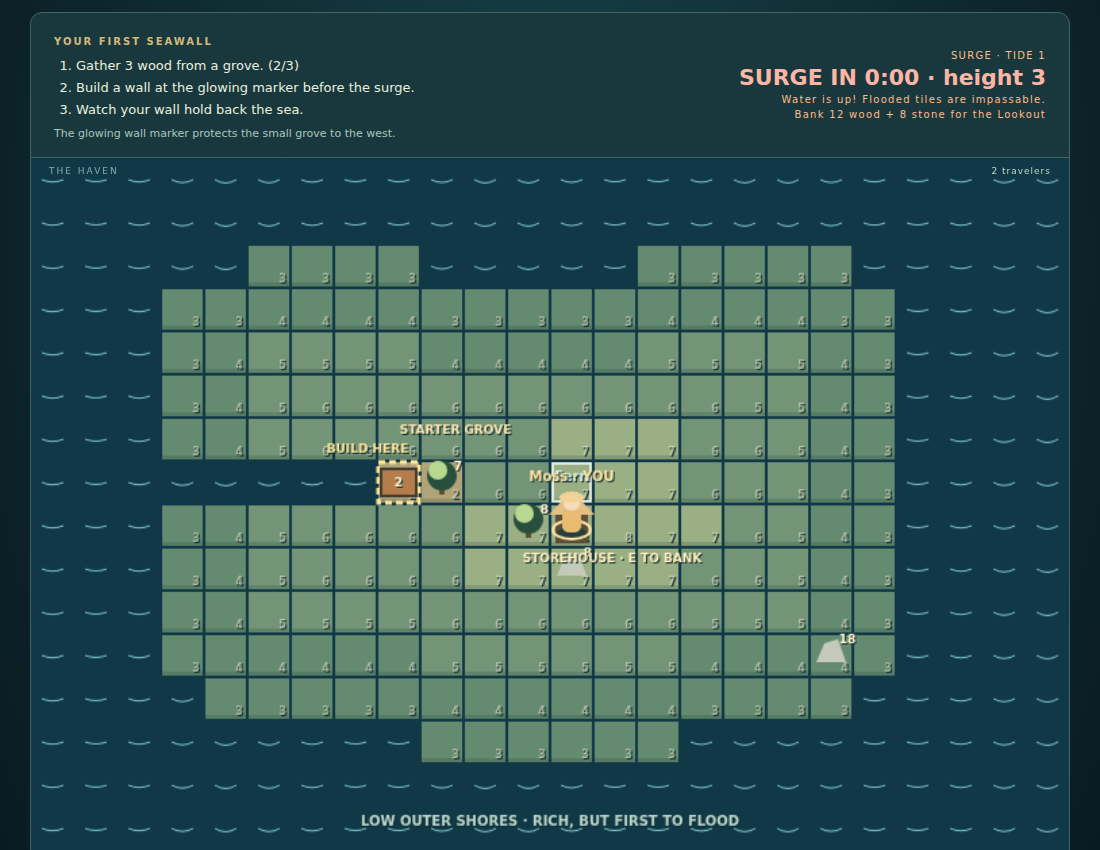
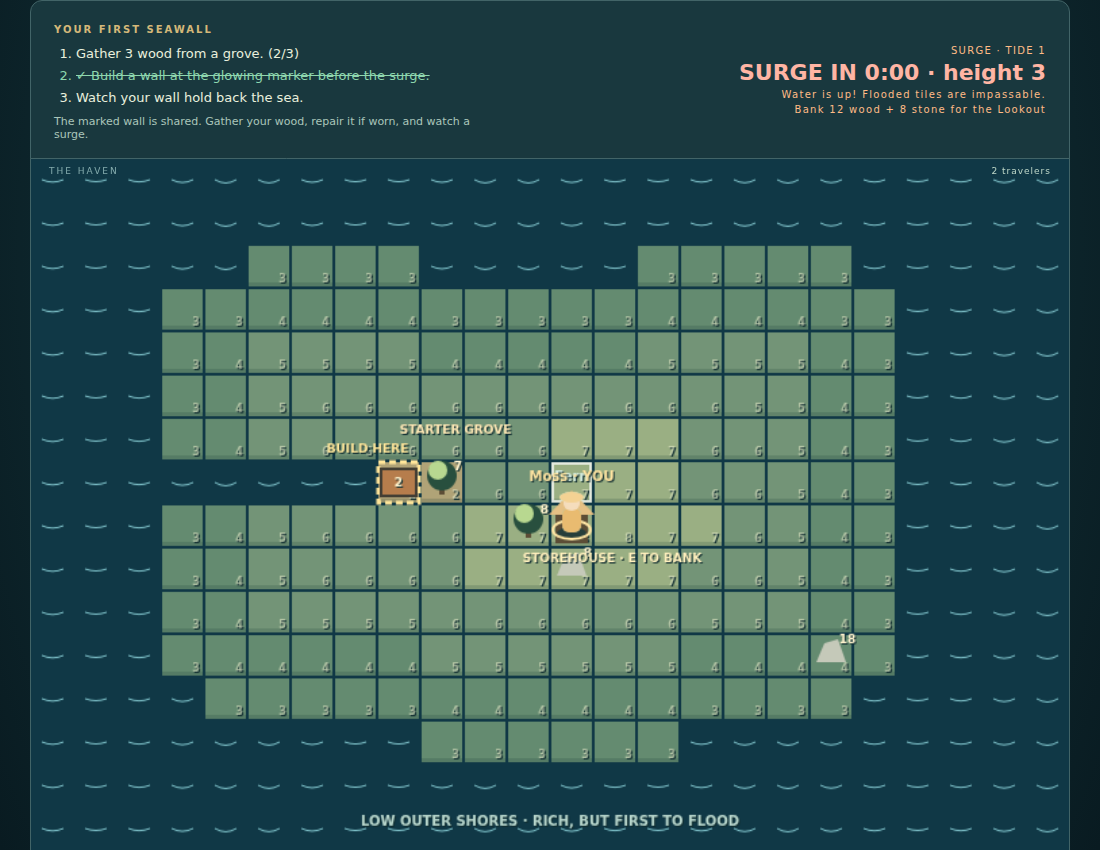
Harden shared onboarding and surge wear feedback

Changed region(s): [[0.0309, 0.0, 0.4327, 0.1835], [0.68, 0.0306, 0.9582, 0.1529]]

diff --git a/tests/invariants.test.ts b/tests/invariants.test.ts
@@ -208,11 +208,61 @@ test('only building and holding the marked starter wall completes the guided obj
     assert.equal(game.player(p.id).built,1);
   }finally{game.close();f.cleanup();}
 });
+test('starter construction is shared with current and late players; a real hold credits everyone who gathered three',()=>{
+  const f=fixture(),game=f.game;
+  try{
+    const owner=game.join('Builder').player,helper=game.join('Helper').player,passive=game.join('Newcomer').player,field=tileCenter(STARTER_WALL+1);
+    for(const p of [owner,helper]) {
+      position(game,p.id,field.x,field.y);
+      for(let i=0;i<3;i++)game.gather(p.id,'grove');
+    }
+    game.build(owner.id,STARTER_WALL,'wood');
+    for(const p of [owner,helper,passive]) assert.equal(game.player(p.id).objective.built,true);
+    assert.equal(game.player(owner.id).built,1);assert.equal(game.player(helper.id).built,0);
+    const late=game.join('Late Join').player;
+    assert.equal(late.objective.built,true);assert.equal(late.objective.held,false);
+    position(game,late.id,field.x,field.y);
+    for(let i=0;i<3;i++)game.gather(late.id,'grove');
+    assert.throws(()=>game.build(late.id,STARTER_WALL,'wood'),/already built together/);
+    assert.equal(game.player(late.id).inventory.wood,3);
+    f.advance(SHIFT_MS);game.shift();
+    for(const p of [owner,helper,late]) assert.equal(game.player(p.id).objective.held,true);
+    assert.equal(game.player(passive.id).objective.held,false);
+    const after=game.join('After Surge').player;
+    assert.equal(after.objective.built,true);assert.equal(after.objective.held,false);
+    position(game,after.id,field.x,field.y);
+    for(let i=0;i<3;i++)game.gather(after.id,'grove');
+    assert.equal(game.player(after.id).objective.held,false);
+    game.db.prepare('UPDATE walls SET hp=0 WHERE tile=?').run(STARTER_WALL);
+    assert.equal(game.join('After Break').player.objective.built,true);
+  }finally{game.close();f.cleanup();}
+});
+test('every surge replaces stale hold notices even when the owner remains safe at the haven',()=>{
+  const f=fixture(),game=f.game;
+  try{
+    const p=game.join('Safe Builder').player,field=tileCenter(STARTER_WALL+1);
+    position(game,p.id,field.x,field.y);
+    for(let i=0;i<3;i++)game.gather(p.id,'grove');
+    game.build(p.id,STARTER_WALL,'wood');
+    position(game,p.id,CAMP.x,CAMP.y);
+    f.advance(SHIFT_MS);game.shift();
+    assert.match(game.player(p.id).notice,/held back tide 1/);
+    assert.equal(game.player(p.id).objective.held,true);
+    f.advance(8000);game.shift();f.advance(5000);game.shift();
+    f.advance(SHIFT_MS);game.shift();
+    assert.match(game.player(p.id).notice,/Tide 2 surged at height 4/);
+    assert.doesNotMatch(game.player(p.id).notice,/held back tide 1/);
+    assert.equal(game.player(p.id).objective.held,true);
+    assert.equal(game.player(p.id).swept,0);
+    assert.equal(game.world.walls[0].hp,0);
+  }finally{game.close();f.cleanup();}
+});
 test('stone walls wear once on each held surge and their last hit protects land until recession',()=>{
   const f=fixture(),game=f.game;
   try{
     const p=game.join('Mason').player,field=tileCenter(STARTER_WALL+1);
     position(game,p.id,field.x,field.y);
+    for(let i=0;i<3;i++)game.gather(p.id,'grove');
     game.db.prepare('UPDATE players SET wood=1,stone=3 WHERE id=?').run(p.id);
     game.build(p.id,STARTER_WALL,'stone');
     for(let tide=1;tide<=5;tide++){
@@ -227,6 +277,24 @@ test('stone walls wear once on each held surge and their last hit protects land 
     assert.ok(game.world.forecast.includes(STARTER_WALL+1));
     f.advance(SHIFT_MS);game.shift();
     assert.equal(game.player(p.id).swept,1);assert.equal(game.player(p.id).objective.held,true);
+  }finally{game.close();f.cleanup();}
+});
+test('a redundant sea-exposed front wall wears while its sheltered backup does not; objective still needs marginal pocket protection',()=>{
+  const f=fixture(),game=f.game;
+  try{
+    const p=game.join('Layered Defenses').player,field=tileCenter(STARTER_WALL+1),marker=tileCenter(STARTER_WALL);
+    position(game,p.id,field.x,field.y);
+    for(let i=0;i<6;i++)game.gather(p.id,'grove');
+    game.build(p.id,STARTER_WALL,'wood');
+    position(game,p.id,marker.x,marker.y);game.build(p.id,STARTER_WALL-1,'wood');
+    const prediction=game.world.forecast;
+    assert.ok(!prediction.includes(STARTER_WALL+1));
+    f.advance(SHIFT_MS);game.shift();
+    assert.deepEqual(game.world.flooded,prediction);
+    assert.equal(game.world.walls.find(w=>w.tile===STARTER_WALL-1)!.hp,2);
+    assert.equal(game.world.walls.find(w=>w.tile===STARTER_WALL)!.hp,3);
+    assert.equal(game.player(p.id).objective.held,false);
+    assert.equal(game.player(p.id).swept,0);
   }finally{game.close();f.cleanup();}
 });
 test('legacy migration preserves hashed identity and materials without retaining old quests',()=>{
@@ -338,6 +406,12 @@ function awaitMessage(ws:WebSocket,predicate:(data:Record<string,unknown>)=>bool
     ws.on('message',handle);
   });
 }
+function awaitClose(ws: WebSocket): Promise<number> {
+  return new Promise((resolve,reject)=>{
+    const timer=setTimeout(()=>reject(Error('WS close timeout')),3000);
+    ws.once('close',code=>{clearTimeout(timer);resolve(code);});
+  });
+}
 async function availablePort(): Promise<number> {
   const listener=createServer();
   await new Promise<void>((resolve,reject)=>{listener.once('error',reject);listener.listen(0,'127.0.0.1',resolve);});
@@ -439,7 +513,7 @@ test('real protocol rejects stolen IDs, duplicate sessions/sequences, teleport/s
       const wallResults=await Promise.all(wallRace);
       assert.equal(wallResults.filter(d=>d.type==='notice').length,1);
       assert.match(String(wallResults.find(d=>d.type==='notice')!.message),/wall built/);
-      assert.match(String(wallResults.find(d=>d.type==='error')!.message),/already stands/);
+      assert.match(String(wallResults.find(d=>d.type==='error')!.message),/already built together/);
       assert.equal(fixtureDb.world.walls.length,1);
       assert.equal(fixtureDb.player(a.id).inventory.wood+fixtureDb.player(b.id).inventory.wood,3);
       for(const client of [ws,second.ws]){
@@ -447,11 +521,11 @@ test('real protocol rejects stolen IDs, duplicate sessions/sequences, teleport/s
         assert.equal((remote.world as {lookout:boolean}).lookout,true);
       }
     } finally {fixtureDb.close();}
-    const close=new Promise<number>(r=>ws.once('close',code=>r(code)));
-    for(let i=0;i<45;i++)ws.send(JSON.stringify({type:'input',seq:1000+i,dx:0,dy:0}));
+    const close=awaitClose(ws);
+    for(let i=0;i<80;i++)ws.send(JSON.stringify({type:'input',seq:1000+i,dx:0,dy:0}));
     assert.equal(await close,1008);
     const huge=await socket(b.token+'x',url);connections.push(huge.ws);
-    const payloadClose=new Promise<number>(r=>huge.ws.once('close',code=>r(code)));
+    const payloadClose=awaitClose(huge.ws);
     huge.ws.send('x'.repeat(2048));assert.equal(await payloadClose,1009);
     assert.equal((await fetch(`${base}/health`)).status,200);
     assert.equal((await fetch(`${base}/favicon.ico`)).status,204);

diff --git a/src/world.ts b/src/world.ts
@@ -45,6 +45,7 @@ export class Game {
         this.db.prepare('UPDATE players SET x=?,y=?,notice=?').run(CAMP.x, CAMP.y, 'Welcome to Rising Tide. Your identity and materials are safe.');
       }
       for (const node of NODE_LAYOUT) this.db.prepare('INSERT OR IGNORE INTO nodes VALUES(?,?)').run(node.id, node.capacity);
+      if (this.db.prepare('SELECT tile FROM walls WHERE tile=?').get(STARTER_WALL)) this.db.prepare('UPDATE players SET objectiveBuilt=1').run();
     });
     this.lastTick = this.clock();
   }
@@ -73,7 +74,8 @@ export class Game {
     if (token !== undefined) return { token: token as string, player: this.player(this.authenticate(token)) };
     if (typeof name !== 'string' || !/^[\p{L}\p{N} _-]{1,18}$/u.test(name.trim())) throw new Rejection('Use 1–18 letters, numbers, spaces, _ or -.');
     const bearer = randomBytes(32).toString('base64url'), id = randomBytes(12).toString('hex');
-    this.db.prepare('INSERT INTO players(id,token,name,x,y) VALUES(?,?,?,?,?)').run(id, hash(bearer), name.trim(), CAMP.x, CAMP.y);
+    const starterBuilt = !!this.db.prepare('SELECT tile FROM walls WHERE tile=?').get(STARTER_WALL);
+    this.db.prepare('INSERT INTO players(id,token,name,x,y,objectiveBuilt) VALUES(?,?,?,?,?,?)').run(id, hash(bearer), name.trim(), CAMP.x, CAMP.y, starterBuilt ? 1 : 0);
     return { token: bearer, player: this.player(id) };
   }
   authenticate(token: unknown) {
@@ -131,10 +133,11 @@ export class Game {
       const standing = tileAt(p.x, p.y)!;
       if (Math.abs(standing.x - TILES[tile].x) + Math.abs(standing.y - TILES[tile].y) !== 1) throw new Rejection('Build on an adjacent tile, not underfoot or diagonally.');
       const old = this.world.walls.find(w => w.tile === tile);
-      if (old && old.hp > 0) throw new Rejection('A wall already stands there.');
+      if (old && old.hp > 0) throw new Rejection(tile === STARTER_WALL ? 'The marked wall is already built together. Repair it when worn, then help it hold!' : 'A wall already stands there.');
       const wood = kind === 'wood' ? 3 : 1, stone = kind === 'stone' ? 3 : 0;
       if (p.inventory.wood < wood || p.inventory.stone < stone) throw new Rejection(kind === 'wood' ? 'Need 3 wood.' : 'Need 3 stone and 1 wood.');
       this.db.prepare('UPDATE players SET wood=wood-?,stone=stone-?,built=built+1,objectiveBuilt=MAX(objectiveBuilt,?) WHERE id=?').run(wood, stone, tile === STARTER_WALL ? 1 : 0, id);
+      if (tile === STARTER_WALL) this.db.prepare('UPDATE players SET objectiveBuilt=1').run();
       this.db.prepare('INSERT INTO walls VALUES(?,?,?,?) ON CONFLICT(tile) DO UPDATE SET kind=excluded.kind,hp=excluded.hp,owner=excluded.owner').run(tile, kind, kind === 'wood' ? 3 : 5, id);
       return `${kind === 'wood' ? 'Wood' : 'Stone'} wall built. Holds tides up to height ${kind === 'wood' ? 3 : 5}.`;
     });
@@ -163,15 +166,19 @@ export class Game {
   }
   private surge(state: State) {
     const walls = this.world.walls, height = surgeHeight(state.tide), wet = flood(height, walls), wetSet = new Set(wet);
+    this.db.prepare('UPDATE players SET notice=?').run(`Tide ${state.tide} surged at height ${height}. Exposed walls and nodes may be lost; inspect your defenses.`);
     for (const wall of walls.filter(w => w.hp > 0)) {
       const without = flood(height, walls.filter(w => w.tile !== wall.tile));
       const held = neighbors(wall.tile).some(id => !wetSet.has(id) && without.includes(id) && TILES[id].elevation > 0 && TILES[id].elevation < height);
+      const exposed = TILES[wall.tile].elevation < height && (wall.kind === 'wood' ? 3 : 5) >= height && neighbors(wall.tile).some(id => wetSet.has(id));
       if (held) {
         const pocket = STARTER_WALL + 1;
         const objectiveHeld = wall.tile === STARTER_WALL && !wetSet.has(pocket) && without.includes(pocket);
-        this.db.prepare('UPDATE players SET held=MAX(held,?),notice=? WHERE id=?').run(objectiveHeld ? 1 : 0, `Your wall held back tide ${state.tide}!`, wall.owner);
-        this.db.prepare('UPDATE walls SET hp=MAX(0,hp-1) WHERE tile=?').run(wall.tile);
-      } else if (wetSet.has(wall.tile)) this.db.prepare('UPDATE walls SET hp=0 WHERE tile=?').run(wall.tile);
+        this.db.prepare('UPDATE players SET notice=? WHERE id=?').run(`Your wall held back tide ${state.tide}!`, wall.owner);
+        if (objectiveHeld) this.db.prepare('UPDATE players SET held=1,notice=? WHERE gathered>=3').run(`Together, your marked wall held back tide ${state.tide}!`);
+      }
+      if (held || exposed) this.db.prepare('UPDATE walls SET hp=MAX(0,hp-1) WHERE tile=?').run(wall.tile);
+      else if (wetSet.has(wall.tile)) this.db.prepare('UPDATE walls SET hp=0 WHERE tile=?').run(wall.tile);
     }
     for (const node of NODE_LAYOUT) if (wetSet.has(node.tile)) this.db.prepare('UPDATE nodes SET remaining=0 WHERE id=?').run(node.id);
     for (const tile of wet) this.db.prepare('DELETE FROM salvage WHERE tile=?').run(tile);

diff --git a/src/client.ts b/src/client.ts
@@ -167,9 +167,9 @@ function renderHud() {
   const texts = [`Gather 3 wood from a grove. (${Math.min(3, objective.gathered)}/3)`, 'Build a wall at the glowing marker before the surge.', 'Watch your wall hold back the sea.'];
   const done = [objective.gathered >= 3, objective.built, objective.held];
   for (const [i, li] of [...el('objectives').children].entries()) { li.textContent = `${done[i] ? '✓ ' : ''}${texts[i]}`; li.classList.toggle('done', done[i]); }
-  el('what-next').textContent = objective.held ? 'What next: protect more land, repair walls, or contribute to the Lookout.' : 'The glowing wall marker protects the small grove to the west.';
+  el('what-next').textContent = objective.held ? 'What next: protect more land, repair walls, or contribute to the Lookout.' : objective.built ? 'The marked wall is shared. Gather your wood, repair it if worn, and watch a surge.' : 'The glowing wall marker protects the small grove to the west.';
   if (previousSweeps !== undefined && p.swept > previousSweeps) notice('SWEPT TO THE HAVEN! Your carried materials washed away. Banked materials and shared walls are safe.');
-  else if (previousShifts !== undefined && w.shifts > previousShifts) notice(`SURGE! ${w.lastFlooded.filter(id => TILES[id].elevation > 0).length} land tiles flooded; exposed nodes washed away. ${objective.held ? 'Your wall held back the sea!' : 'Repair walls and protect more land.'}`);
+  else if (previousShifts !== undefined && w.shifts > previousShifts) notice(`SURGE! ${w.lastFlooded.filter(id => TILES[id].elevation > 0).length} land tiles flooded; exposed nodes washed away. Inspect and repair your defenses.`);
   if (p.notice && p.notice !== previousNotice) notice(p.notice);
   previousNotice = p.notice;
   previousSweeps = p.swept; previousShifts = w.shifts;

diff --git a/src/index.html b/src/index.html
@@ -16,7 +16,7 @@
     <div class="build-tools"><span>Face a tile by moving, or click an adjacent tile.</span><button id="build-wood">B · Wood wall</button><button id="build-stone">V · Stone wall</button><button id="repair">R · Repair</button><span>Wood holds height 3 · Stone holds 5 · King Tides need high ground!</span></div>
     <div id="forecast-controls" class="build-tools" hidden><span>Lookout · cyan outlines preview future flood risk with today's walls:</span><button data-forecast="-1">Current tide</button><button data-forecast="0">+1 tide</button><button data-forecast="1">+2 tides</button></div>
     <p id="notice" role="status" aria-live="polite">Welcome! Walk left to the grove, gather 3 wood with E, then build at the glowing marker with B.</p>
-    <aside id="board" aria-label="Haven board"><strong>HAVEN BOARD</strong><span id="board-stats"></span><span id="builders"></span><span id="progress"></span><span id="tide-events"></span></aside>
+    <aside id="board" aria-label="Haven board"><strong>HAVEN BOARD</strong><span id="board-stats"></span><span id="builders"></span><span id="progress"></span><span>Heights repeat: 3 → 4 → 3 → 5 → 4 → 5 → 3 → 6 (King)</span><span id="tide-events"></span></aside>
     <div class="touch" aria-label="Touch controls"><div class="pad"><button data-key="ArrowUp" aria-label="Move up">↑</button><button data-key="ArrowLeft" aria-label="Move left">←</button><button data-key="ArrowDown" aria-label="Move down">↓</button><button data-key="ArrowRight" aria-label="Move right">→</button></div><button id="interact">E · Interact</button></div>
   </section>
   <footer>The highest haven ground never floods. There is always a way back. <span>Invite a friend to this backend; build together.</span></footer>

diff --git a/tests/journey.e2e.ts b/tests/journey.e2e.ts
@@ -61,7 +61,7 @@ async function interact(page: Page, count = 1) {
   for (let i = 0; i < count; i++) {
     await page.waitForTimeout(420);
     await page.keyboard.press('e');
-    await page.waitForTimeout(150);
+    await page.waitForTimeout(i === count - 1 ? 420 : 150);
   }
 }
 
@@ -137,8 +137,8 @@ test('Rising Tide: two real travelers gather, defend, get swept, reconnect and s
 
     await fern.locator('canvas').focus();
     await fern.keyboard.press('b');
-    await expect(fern.locator('#notice')).toContainText(/wood|need|cost/i);
-    record('Real B with an empty pack produces visible invalid-action feedback.');
+    await expect(fern.locator('#notice')).toContainText(/wood|need|cost|low ground|grove|haven/i);
+    record('Real B at the haven with an empty pack produces visible invalid-action feedback.');
     const initial = await snapshot(fern);
     const grove = initial.nodes.find(node => tileAt(node) === STARTER_FIELD && node.resource === 'wood')!;
     expect(grove).toBeTruthy();

diff --git a/README.md b/README.md
@@ -46,6 +46,10 @@ Press E three times to gather 3 wood. From the grove, face left and press B
 to build on the glowing marker. Stay on the grove and watch the wall block
 the first surge. The three-step tracker records this permanently.
 Then protect more land, repair battered walls, or work on the shared Lookout.
+The marked construction is cooperative: if someone already built it, that
+step is credited to newcomers too. Gather your own 3 wood, help repair it,
+and watch a later successful defense. Builder rankings
+still credit only the traveler who actually placed each wall.
 
 ### The tide
 
@@ -57,8 +61,10 @@ strong enough for that surge. Flooded tiles cannot be crossed.
 
 Wood walls hold up to height **3**; stone walls hold up to **5**. Successful
 defenses wear down durability, shown on each wall. Repair before it breaks;
-broken walls do not block water. A higher surge overtops a weaker wall.
-Surge heights repeat predictably, with **every eighth a height-6 King Tide**.
+broken walls do not block the next surge. A wall's last durability point
+finishes holding the current surge before breaking. A higher surge overtops
+and destroys a weaker wall.
+Surge heights repeat **3, 4, 3, 5, 4, 5, 3, 6**, with **every eighth a height-6 King Tide**.
 Neither wall type alone can stop a King Tide: use elevation-6 ridges as
 natural barriers, preserve high fields, and bank supplies to rebuild afterward.
 The elevation-7 haven and its recovery resources always stay safe.
